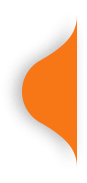
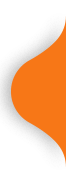
fix

diff --git a/App/Containers/Styles/LoginScreenStyle.js b/App/Containers/Styles/LoginScreenStyle.js
@@ -93,8 +93,8 @@ export default StyleSheet.create({
     height: Metrics.WIDTH(40),
   },
   ear_left: {
-    width: Metrics.WIDTH(74),
-    height: Metrics.HEIGHT(164),
+    width: Metrics.WIDTH(77),
+    height: Metrics.HEIGHT(183),
     alignItems: 'center',
     justifyContent: 'center',
   },
